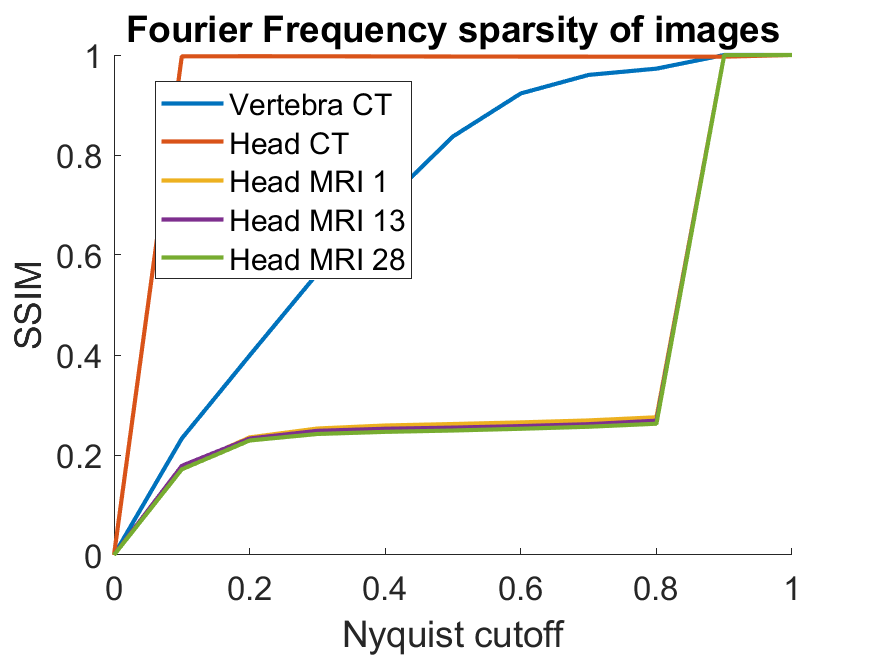
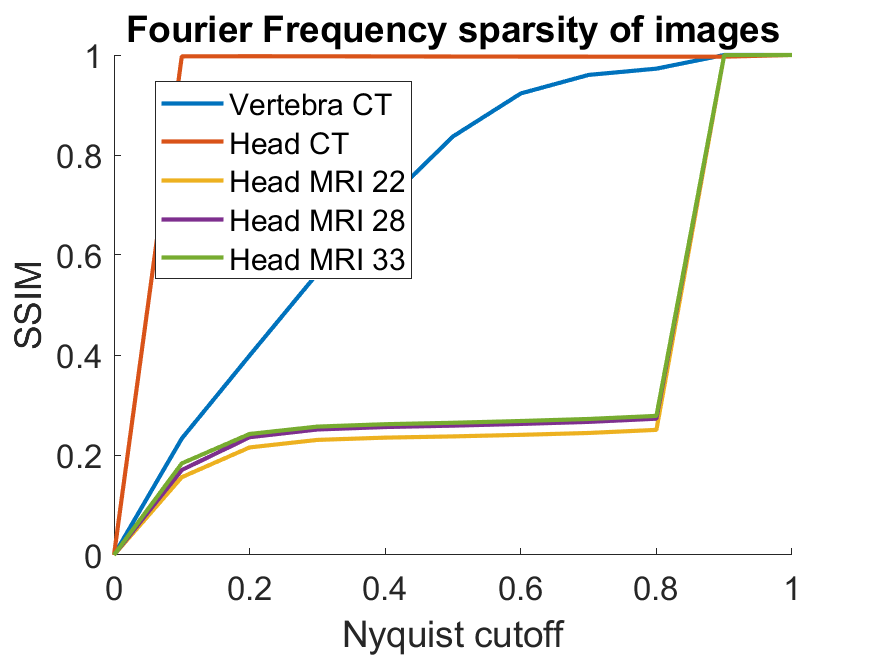
add plots

Changed region(s): [[0.1234, 0.5183, 0.7714, 0.8232], [0.7714, 0.3049, 0.8023, 0.4878], [0.432, 0.2439, 0.4629, 0.4268]]

diff --git a/CS_Testbench/freq_analysis.m b/CS_Testbench/freq_analysis.m
@@ -3,8 +3,6 @@
 clear;
 close all;
 
-%% Vertebra CT
-
 num_images = 37;
 C = 0.1:0.1:0.9;
 SSIMs = zeros(num_images, length(C));
@@ -47,24 +45,50 @@ for k = 1:num_images
 end
 toc;
 
+% results
 C = [0, C, 1];
 SSIMs = horzcat(zeros(num_images, 1), SSIMs, ones(num_images, 1));
 save('results\freq_analysis.mat', 'SSIMs', 'C');
 
+idx = sort(randperm(35, 3));
 figure; hold on;
 plot(C, SSIMs(1, :), 'LineWidth', 2);
 plot(C, SSIMs(2, :), 'LineWidth', 2);
-plot(C, SSIMs(3, :), 'LineWidth', 2);
-plot(C, SSIMs(15, :), 'LineWidth', 2);
-plot(C, SSIMs(30, :), 'LineWidth', 2);
-legend('Vertebra CT', 'Head CT', 'Head MRI 1', 'Head MRI 13', 'Head MRI 28', 'location', 'best');
+plot(C, SSIMs(idx(1), :), 'LineWidth', 2);
+plot(C, SSIMs(idx(2), :), 'LineWidth', 2);
+plot(C, SSIMs(idx(3), :), 'LineWidth', 2);
+legend('Vertebra CT', 'Head CT', ['Head MRI ', num2str(idx(1))], ...
+    ['Head MRI ', num2str(idx(2))], ['Head MRI ', num2str(idx(3))], 'location', 'best');
 xlabel('Nyquist cutoff');
 ylabel('SSIM');
 title('Fourier Frequency sparsity of images');
 set(gca, 'fontsize', 16);
 saveas(gcf, 'results\freq_analysis.png');
 
-%% MRI
+figure;
+subplot(2,3,1); imagesc(flipud(squeeze(volume(round(sz2(1)), :, :)))); colormap gray; colorbar; axis image; axis off; title('Sagittal');
+subplot(2,3,2); imagesc(squeeze(volume(:, round(sz2(2)), :))); colormap gray; colorbar; axis image; axis off; title('Coronal');
+subplot(2,3,3); imagesc(squeeze(volume(:, :, round(sz2(3))))); colormap gray; colorbar; axis image; axis off; title('Axial');
+subplot(2,3,4); imagesc(log(1+abs(squeeze(F(round(sz2(1)), :, :)))));
+    colormap gray; colorbar; axis image; xlabel('f_y'); ylabel('f_z'); set(gca, 'XTick', [], 'YTick', []);
+subplot(2,3,5); imagesc(log(1+abs(squeeze(F(:, round(sz2(2)), :)))));
+    colormap gray; colorbar; axis image; xlabel('f_x'); ylabel('f_z'); set(gca, 'XTick', [], 'YTick', []);
+subplot(2,3,6); imagesc(log(1+abs(squeeze(F(:, :, round(sz2(3)))))));
+    colormap gray; colorbar; axis image; xlabel('f_x'); ylabel('f_y'); set(gca, 'XTick', [], 'YTick', []);
+saveas(gcf, 'results\freq_MRI.png');
 
-
+v = load('data\Head CT\headCT.mat');
+volume = v.u;
+F = fftshift(fftn(volume));
+figure;
+subplot(2,3,1); imagesc(flipud(squeeze(volume(256, :, :)))); colormap gray; colorbar; axis image; axis off; title('Sagittal');
+subplot(2,3,2); imagesc(squeeze(volume(:, 256, :))); colormap gray; colorbar; axis image; axis off; title('Coronal');
+subplot(2,3,3); imagesc(squeeze(volume(:, :, 90))); colormap gray; colorbar; axis image; axis off; title('Axial');
+subplot(2,3,4); imagesc(log(1+abs(squeeze(F(256, :, :)))));
+    colormap gray; colorbar; axis image; xlabel('f_y'); ylabel('f_z'); set(gca, 'XTick', [], 'YTick', []);
+subplot(2,3,5); imagesc(log(1+abs(squeeze(F(:, 256, :)))));
+    colormap gray; colorbar; axis image; xlabel('f_x'); ylabel('f_z'); set(gca, 'XTick', [], 'YTick', []);
+subplot(2,3,6); imagesc(log(1+abs(squeeze(F(:, :, 90)))));
+    colormap gray; colorbar; axis image; xlabel('f_x'); ylabel('f_y'); set(gca, 'XTick', [], 'YTick', []);
+saveas(gcf, 'results\freq_headCT.png');
 
